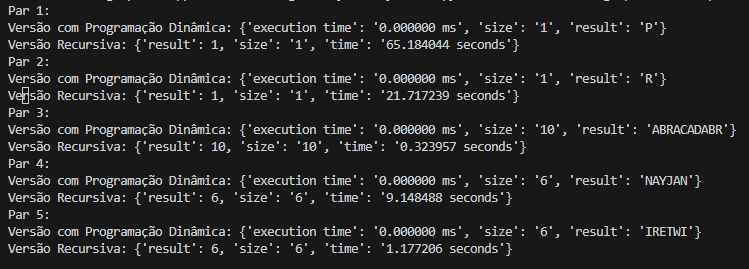
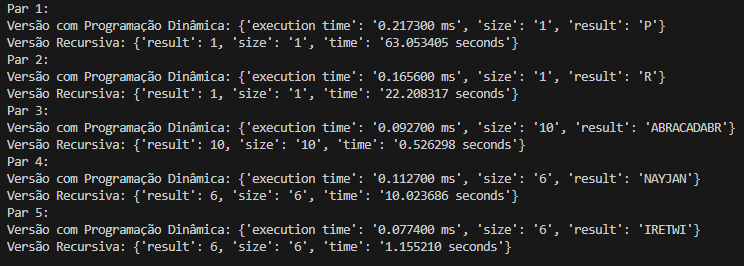
feat: better timming function

diff --git a/lcs.py b/lcs.py
@@ -1,5 +1,5 @@
 import time
-
+from time import perf_counter
 def lcs_recursive(X, Y, m, n):
     start_time = time.time()
     result = lcs(X, Y, m, n)
@@ -17,15 +17,15 @@ def lcs(X, Y, m, n):
 
 
 def longest_common_subsequence(X, Y):
-    start_time = time.time()
+    start_time = perf_counter()
     # Obter o comprimento das duas sequências
     len_X = len(X)
     len_Y = len(Y)
-
     # Inicializar a matriz de programação dinâmica (dp) com zeros
     dp_matrix = [[0] * (len_Y + 1) for _ in range(len_X + 1)]
-
     # Preencher a matriz dp
+    # Como temos que calcular o valor para cada combinação de i (de 1 a m) e j (de 1 a n), o tempo total é O(m*n).
+    
     for i in range(1, len_X + 1):
         for j in range(1, len_Y + 1):
             # Quando os caracteres correspondentes nas duas sequências são iguais
@@ -34,8 +34,8 @@ def longest_common_subsequence(X, Y):
             else:
                 # Escolher o maior valor entre a célula acima e a célula à esquerda
                 dp_matrix[i][j] = max(dp_matrix[i - 1][j], dp_matrix[i][j - 1])
-
     # Reconstruir a subsequência comum mais longa a partir da matriz dp
+    
     lcs_result = []
     i, j = len_X, len_Y
     while i > 0 and j > 0:
@@ -47,14 +47,10 @@ def longest_common_subsequence(X, Y):
             i -= 1
         else:
             j -= 1
-
-
     # Converter a lista resultante em uma string e inverter para obter a LCS correta
     lcs_string = ''.join(reversed(lcs_result))
-    end_time = time.time()
-    execution_time = (end_time - start_time) * 1000 
-
-
+    end_time = perf_counter()
+    execution_time = (end_time - start_time) * 1000
     return {"execution time": f"{execution_time:.6f} ms", "size": str(len(lcs_string)), "result": lcs_string}
 
 # Exemplo de uso:
